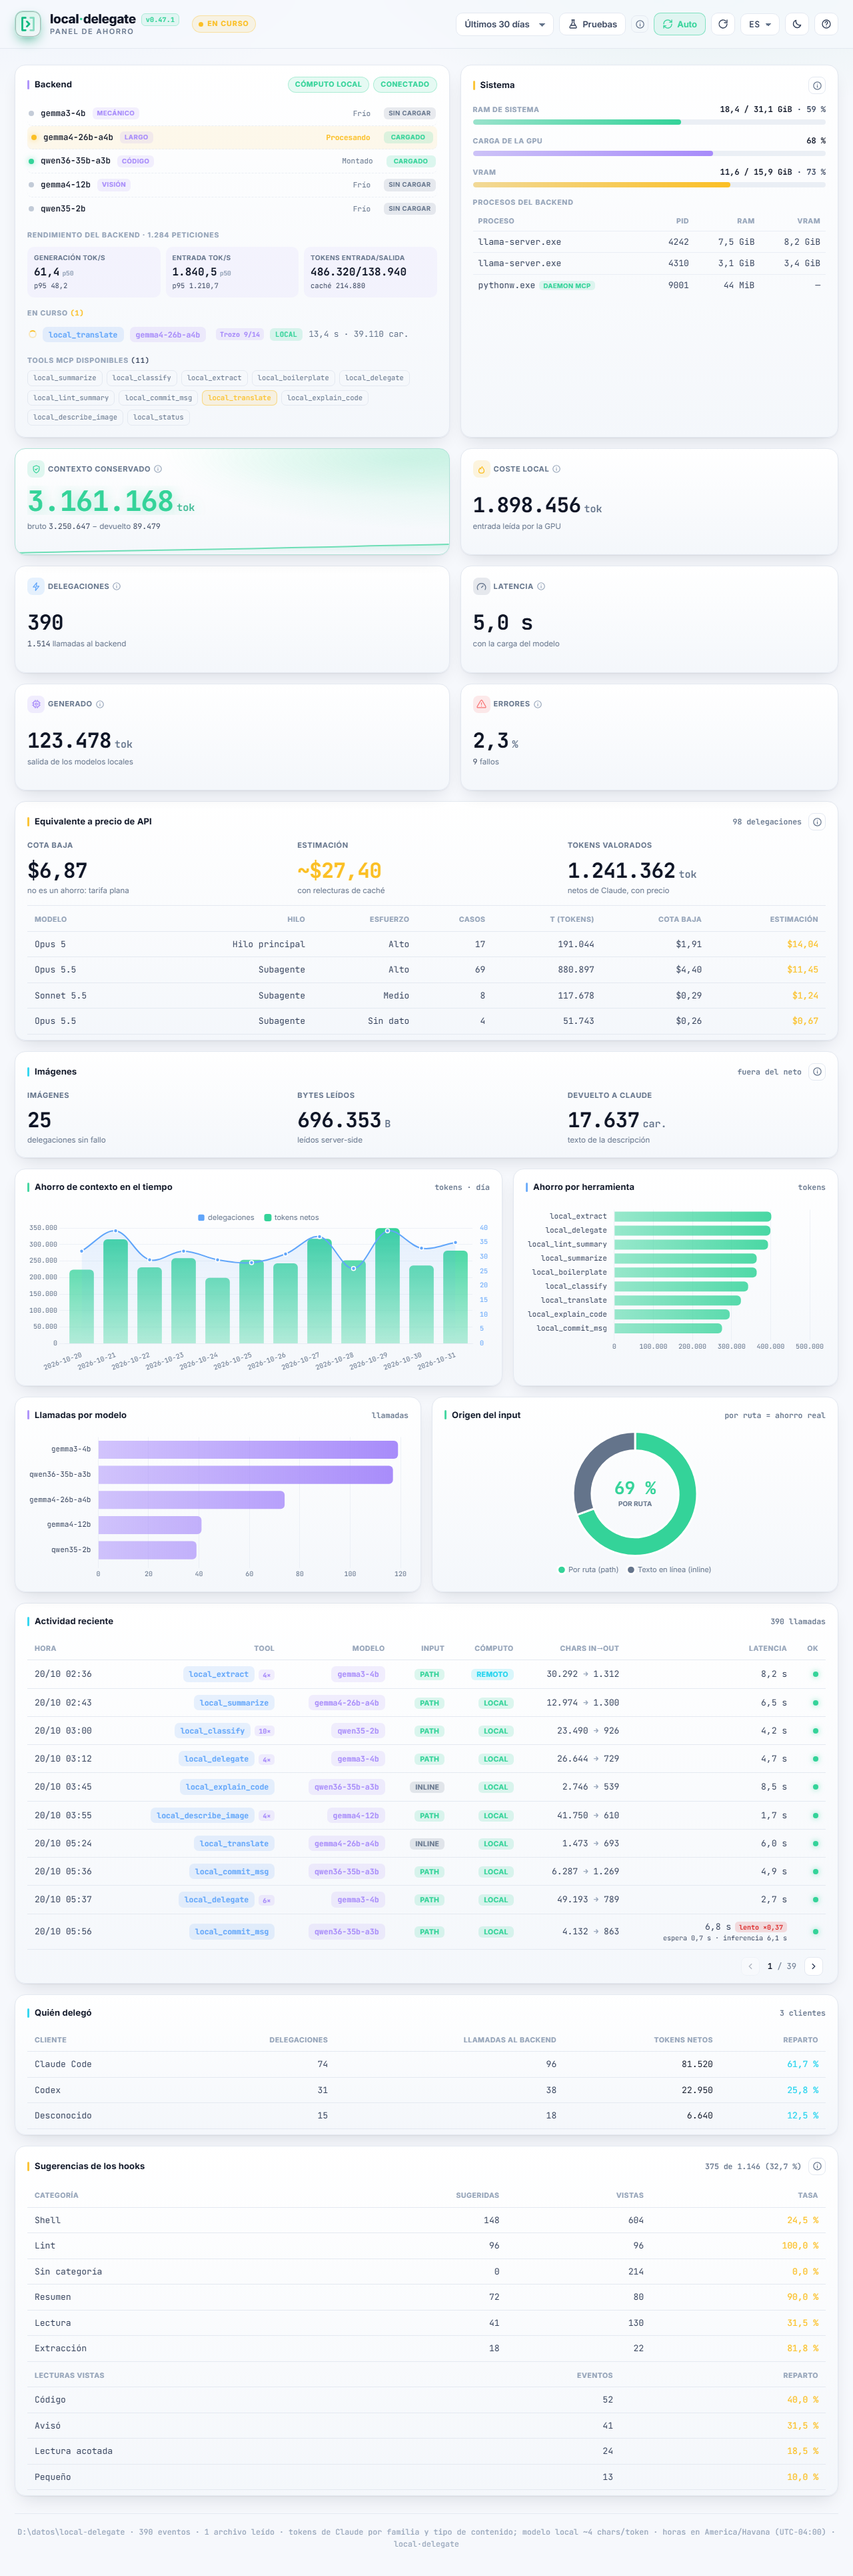
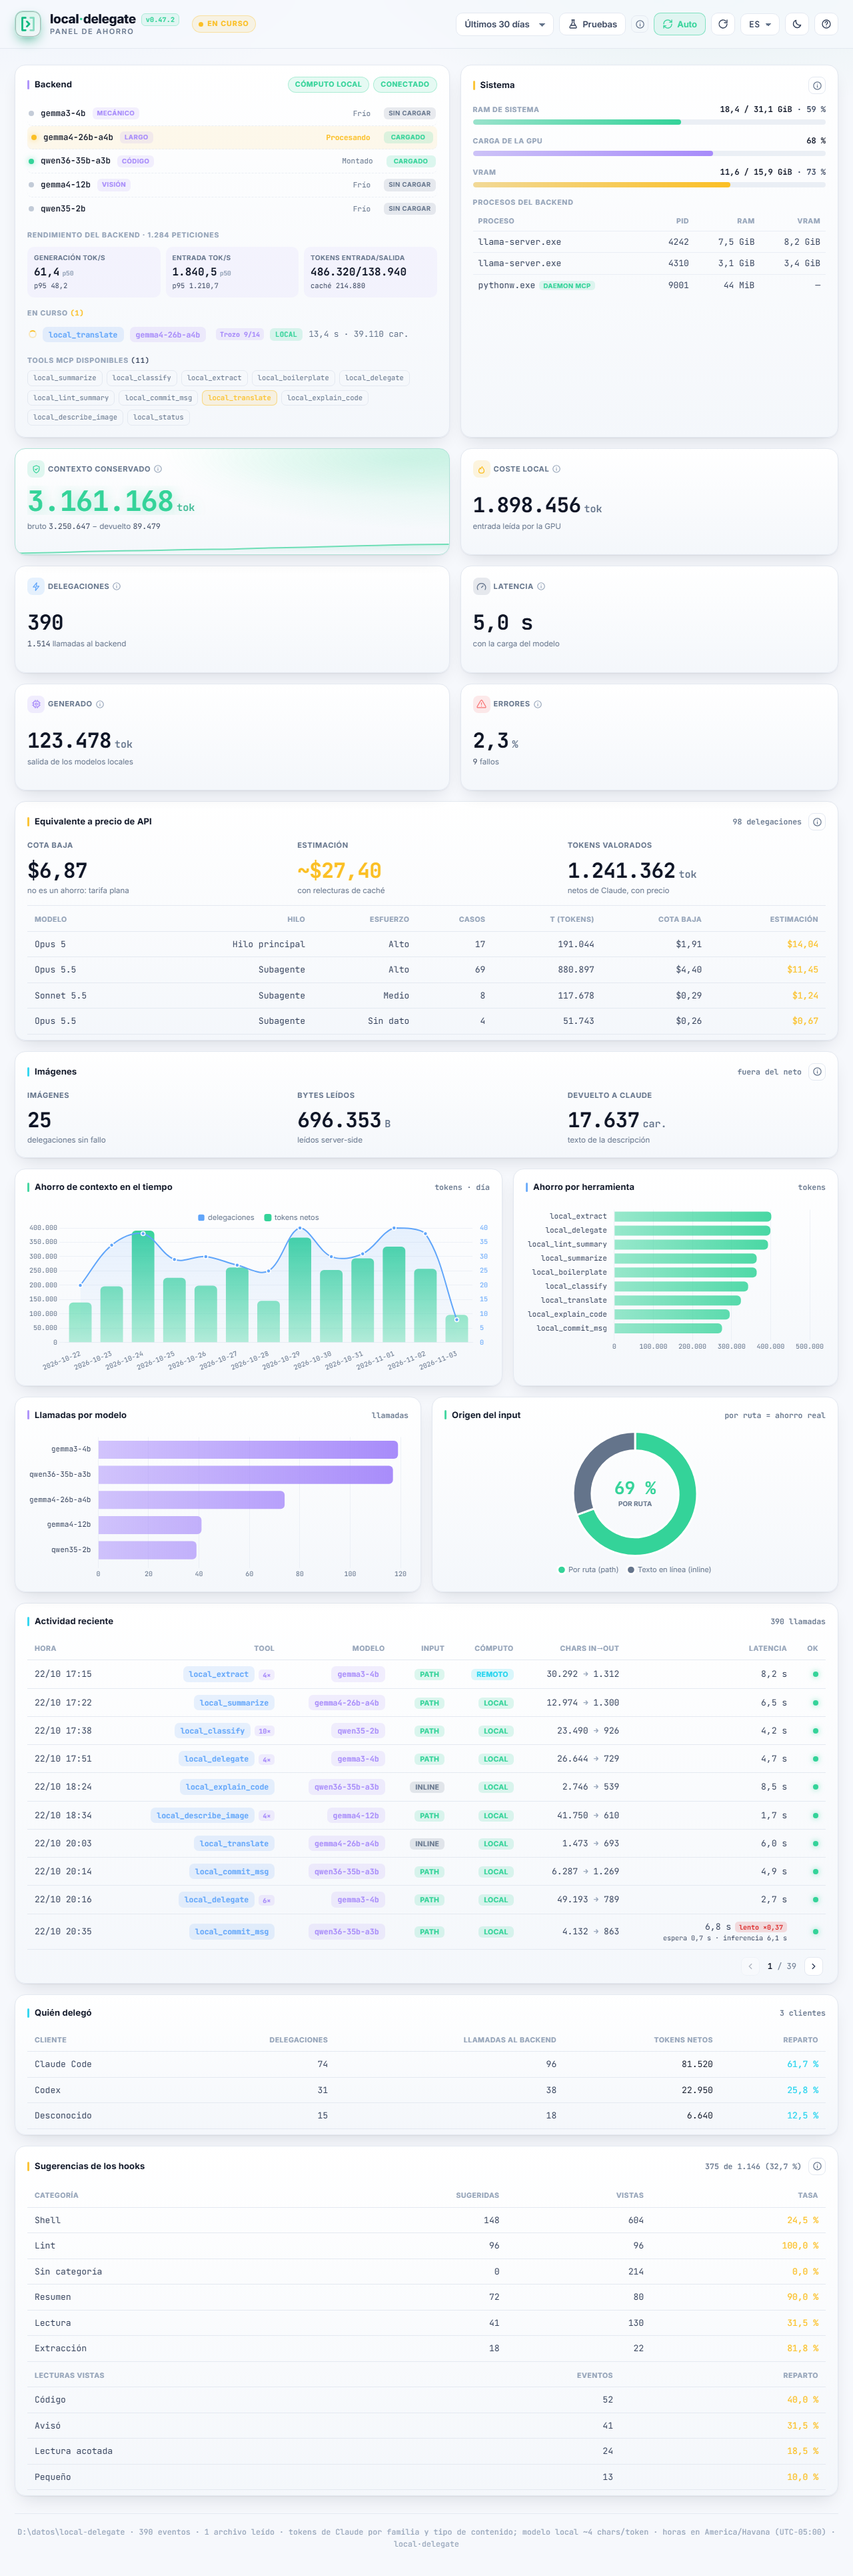
chore: release v0.47.2 (#529)
* chore: release v0.47.2

* chore: add #525 to the v0.47.2 release summary

Changed region(s): [[0.0312, 0.4661, 0.5625, 0.5282]]

diff --git a/docs/wiki/Integration-install.md b/docs/wiki/Integration-install.md
@@ -523,7 +523,7 @@ local-delegate doctor --home /tmp/x  # diagnostica contra un HOME simulado (solo
 | Servicios | token del puerto del daemon | la **otra** puerta del mismo camino: si el puerto del daemon exige token, si las entradas MCP en modo `http` lo llevan. Pregunta al puerto y compara con lo que llevan las entradas de los tres clientes; sin cabecera, `warn` nombrando al cliente. Existe porque `install` sin `--web-token-env` deja la entrada sin `Authorization` y el cliente en `401` sin que nada lo dijera |
 | Servicios | versión de Claude Code | `claude --version` contra la mínima del plugin (2.1.292); por debajo, `[WARN]` e `install` sigue por settings. Es la versión del **CLI**: la pestaña Code de Claude Desktop y la extensión de VS Code no se pueden medir desde aquí, y piden **2.1.286** y **2.1.299** respectivamente (límite documentado; lo de VS Code no se verificó en vivo). Dentro de WSL no aplica |
 | Servicios | plugin de Claude Code | solo con el plugin: `claude plugin list --json` lo lista **instalado** (`[FALT]` si no), **habilitado**, con la **versión del paquete** y con la opción `language` en el idioma vigente (`[WARN]` si no). Dentro de WSL no se espera |
-| Servicios | token de Claude Desktop | si la entrada `local-delegate` de Claude Desktop puede entrar al puerto del daemon. Desde la 0.40 la entrada buena es la del **puente** (`local-delegate desktop-bridge`, la escribe `install --desktop` en Windows): se comprueba que su ejecutable exista y se prueba **el token que lee el puente**. Claude Desktop no pasa tu entorno a sus MCP ni expande `${VAR}`, así que una entrada con `${…}` o con el token escrito tal cual (en la cabecera o en su `env`) da `[WARN]` aunque el daemon la acepte, y el token nunca se imprime. Fuera de Windows, donde no hay puente, el token escrito da `[OK]` si el fichero es tuyo y solo tú puedes leerlo (`0600`) y no queda ningún `${…}` sin expandir (desde la 0.47.1, issue #511). Para la entrada antigua de `mcp-remote`: Lee `claude_desktop_config.json` (en Windows, `%APPDATA%\Claude\`), saca la cabecera `Authorization` del `--header` de `mcp-remote` y **prueba ese token** contra el puerto, porque va escrito literal y un token viejo tiene la misma forma que uno bueno. Nunca lo imprime. Sin fichero, sin entrada nuestra, por stdio o apuntando a otra máquina, `unknown`. Existe porque al rotar el token `install` arregla los otros tres clientes y este se quedaba en `401` en silencio |
+| Servicios | token de Claude Desktop | si la entrada `local-delegate` de Claude Desktop puede entrar al puerto del daemon. Desde la 0.40 la entrada buena es la del **puente** (`local-delegate desktop-bridge`, la escribe `install --desktop` en Windows): se comprueba que su ejecutable exista y se prueba **el token que lee el puente**. Claude Desktop no pasa tu entorno a sus MCP ni expande `${VAR}`, así que una entrada con `${…}` o con el token escrito tal cual (en la cabecera o en su `env`) da `[WARN]` aunque el daemon la acepte, y el token nunca se imprime. Fuera de Windows, donde no hay puente, el token escrito da `[OK]` si el fichero es tuyo y solo tú puedes leerlo (`0600`) y no queda ningún `${…}` sin expandir (desde la 0.47.1, issue #511). Una `${VAR}` cuya `VAR` tiene valor en el `env` de la misma entrada no cuenta como sin expandir, porque la sustituye el propio `mcp-remote` (la forma `--header Authorization:${AUTH_HEADER}` con `env.AUTH_HEADER`, desde la 0.47.2); una que no lo tiene sigue avisando. Para la entrada antigua de `mcp-remote`: Lee `claude_desktop_config.json` (en Windows, `%APPDATA%\Claude\`), saca la cabecera `Authorization` del `--header` de `mcp-remote` y **prueba ese token** contra el puerto, porque va escrito literal y un token viejo tiene la misma forma que uno bueno. Nunca lo imprime. Sin fichero, sin entrada nuestra, por stdio o apuntando a otra máquina, `unknown`. Existe porque al rotar el token `install` arregla los otros tres clientes y este se quedaba en `401` en silencio |
 | Backend | llama-swap | versión instalada vs probada |
 | Backend | llama-server | versión instalada vs probada |
 | Backend | residencia de llama-swap | la config que usa llama-swap (`--config`, si no `LLAMASWAP_CONFIG` de este shell, si no la que dice el daemon): `[ OK ]` con «sin residente» (lo recomendado); con un residente elegido con `--pin`, también `[ OK ]`, e informa de la VRAM que retiene; `warn` si hay un grupo `persistent` con TTL mayor que 0, porque `persistent` no lo mantiene cargado. Mira también las celdas de la [afinidad](Tools.md#afinidad-usar-el-modelo-que-ya-está-cargado): `warn` («afinidad sin base») si la config apunta a otro GGUF bajo el mismo id en esta máquina, si el modelo del rol cambió por variable o si difiere otra parte de la huella (`-ncmoe`, contexto, tamaño, prompt); en **otra máquina**, donde los GGUF medidos no existen, lo dice en el detalle («afinidad inerte aquí») sin `[WARN]` |

diff --git a/CHANGELOG.md b/CHANGELOG.md
@@ -6,6 +6,34 @@ y el proyecto usa [Versionado Semántico](https://semver.org/lang/es/).
 
 ## [Unreleased]
 
+## [0.47.2] - 2026-11-02
+
+Versión de **seguridad** y arreglos. Lo principal: las tools que leen `path` o escriben `target`
+desde el servidor ya no tocan rutas sensibles aunque un comodín las permita. Las credenciales
+(`~/.ssh`, `.env`, `.npmrc`, `.claude.json`…) nunca se leen ni se escriben; las carpetas de
+arranque automático y la configuración que ejecuta código nunca se escriben; y en Windows se
+rechazan las rutas UNC y de dispositivo (#526). Además, el panel y la banda dicen cuánto lleva un
+trozo que se divide («Trozo 3/4 · dividido en 3 · parte 2», #516); `doctor` deja de contar como
+sin expandir la `${AUTH_HEADER}` que `mcp-remote` sustituye desde el `env` de la entrada de Claude
+Desktop en la Mac (#511); y `local_explain_code` troceado avisa cuando responde «no hay
+información» mientras la búsqueda exacta encuentra el nombre preguntado (#527). Y
+`local_lint_summary` ya no inventa diagnósticos con una entrada vacía o limpia: responde «Sin
+hallazgos» sin llamar al modelo y avisa si el resumen nombra ficheros que no están en la entrada
+(#525). También entran
+actualizaciones de dependencias (`fastapi` 0.162.0, `platformdirs` 4.14.0, `opentelemetry-api`
+1.45.2 y las de desarrollo) y arreglos de tests sin efecto para quien lo usa (#518, #524).
+
+### Cómo actualizar
+
+- **En la PC y en la Mac:** ejecuta `local-delegate update` o, si instalaste con versión fija,
+  reinstala con `uv tool install --force --no-cache "local-delegate-mcp[llamaswap]==0.47.2"` (con
+  tus extras). Reinicia el daemon y haz `/mcp` en Claude Code (o abre una sesión nueva): las
+  sesiones abiertas siguen con el servidor MCP de la 0.47.1 hasta entonces.
+- **Conviene actualizar las dos máquinas** por la parte de seguridad. No hace falta cambiar la
+  configuración. Si alguna vez delegabas a propósito un fichero de la lista protegida (un `.env`,
+  por ejemplo), ahora se rechaza: léelo tú. La variable nueva `LOCAL_DELEGATE_DENY_PATHS` es
+  opcional y sirve para añadir rutas propias a la lista.
+
 ### Seguridad
 
 - **Las tools ya no leen ni escriben rutas sensibles, aunque estén permitidas con comodín**: las
@@ -4168,7 +4196,8 @@ los ficheros de datos. Lo que lee el usuario sigue en español.
 - Empaquetado para PyPI (`local-delegate-mcp`) ejecutable con `uvx`; `server.json` para el
   registro oficial de MCP.
 
-[Unreleased]: https://github.com/ZahiriNatZuke/local-delegate/compare/v0.47.1...HEAD
+[Unreleased]: https://github.com/ZahiriNatZuke/local-delegate/compare/v0.47.2...HEAD
+[0.47.2]: https://github.com/ZahiriNatZuke/local-delegate/compare/v0.47.1...v0.47.2
 [0.47.1]: https://github.com/ZahiriNatZuke/local-delegate/compare/v0.47.0...v0.47.1
 [0.47.0]: https://github.com/ZahiriNatZuke/local-delegate/compare/v0.46.0...v0.47.0
 [0.46.0]: https://github.com/ZahiriNatZuke/local-delegate/compare/v0.45.1...v0.46.0
